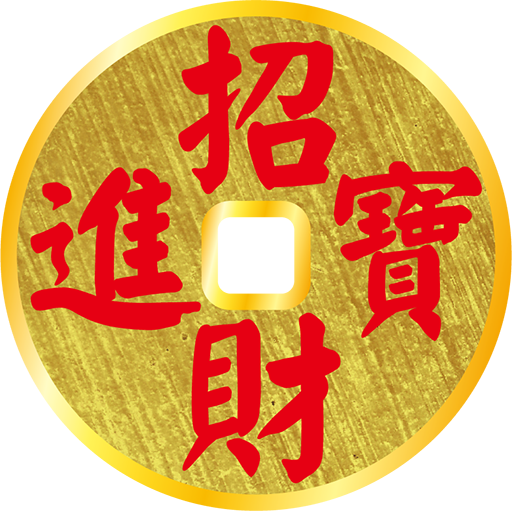
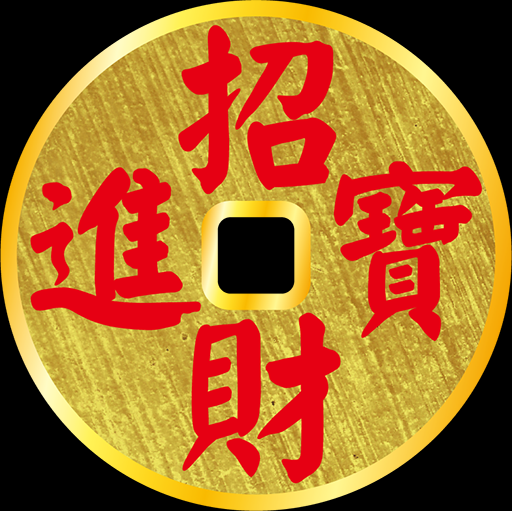
Add files via upload

diff --git a/index.html b/index.html
@@ -4,7 +4,7 @@
 <meta charset="UTF-8">
 <title>損益計算器 3.0網頁版</title>
 
-<meta name="viewport" content="width=device-width, initial-scale=1.5">
+<meta name="viewport" content="width=device-width, initial-scale=2">
 
 
 <!-- 加入 PWA manifest -->